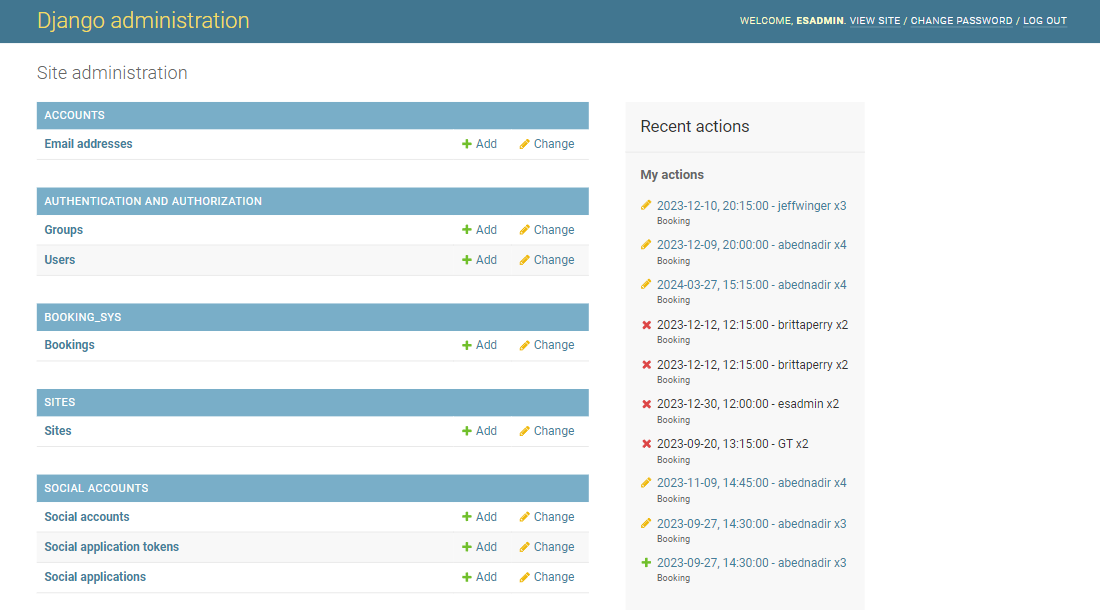
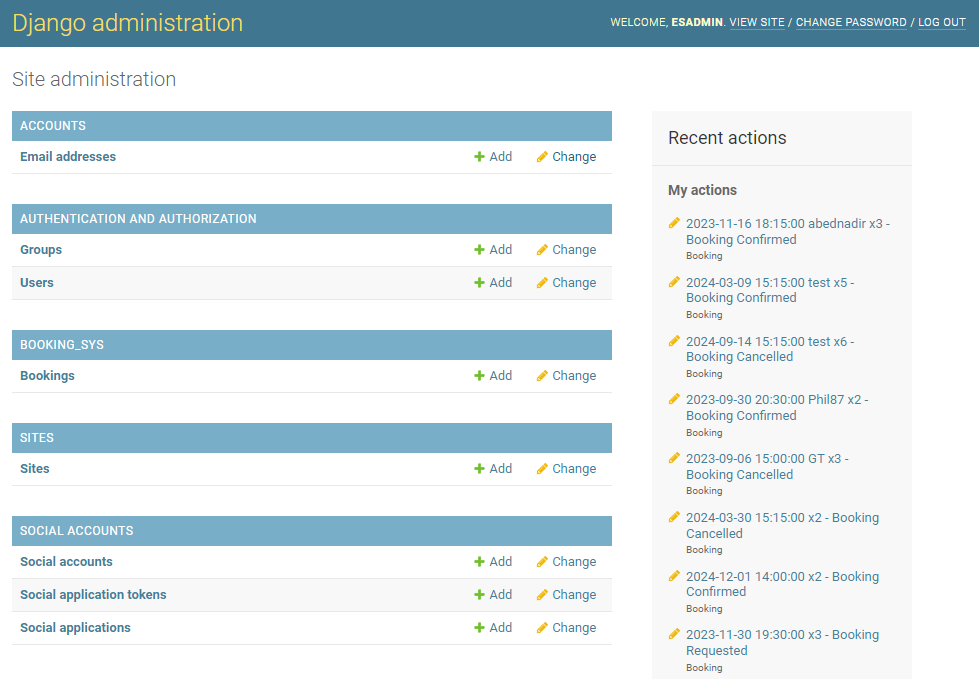
Update admin title view and documentation

diff --git a/booking_sys/models.py b/booking_sys/models.py
@@ -19,4 +19,4 @@ class Booking(models.Model):
 
     def __str__(self):
         status_name = dict(STATUS)[self.status]
-        return f'{self.date} {self.time} x{self.group} - {status_name}'
+        return f'{self.date} {self.time} {self.contact} x{self.group} - {status_name}'

diff --git a/eaststreet/settings.py b/eaststreet/settings.py
@@ -25,7 +25,7 @@ TEMPLATES_DIR = os.path.join(BASE_DIR, 'templates')
 SECRET_KEY = os.environ.get('SECRET_KEY')
 
 # SECURITY WARNING: don't run with debug turned on in production!
-DEBUG = True
+DEBUG = False
 
 ALLOWED_HOSTS = [
     'localhost',

diff --git a/README.md b/README.md
@@ -245,7 +245,7 @@ Each of the following implementations was added in response to the acceptance cr
 
 ![Admin](static/images/readme/features-admin.png)
 
-- An admin area accessible via the [following link](https://east-street-bc0671035c95.herokuapp.com/admin) which is only accessible by typing the address i.e. not direct link is provided to users of the site
+- An admin area accessible via https://east-street-bc0671035c95.herokuapp.com/admin which can only be accessed by typing the address i.e. no direct link is provided to users of the site
 - Username and password details must be entered to gain access and will only admit those designated as administrators
 - A link named 'Bookings' provided in the lefthand menu allows the admin to view all entries on the database
 
@@ -330,7 +330,7 @@ Each of the following implementations was added in response to the acceptance cr
 ![Overview](static/images/readme/features-admin-overview.png)
 
 - A link named 'Bookings' provided in the lefthand menu allows the admin to view all entries on the database
-- Booking names formatted as ```<date> <time> x<group size> - <status>``` and displayed in date order for ease of reading/understanding
+- Booking names formatted as ```<date> <time> <contact> x<group size> - <status>``` and displayed in date order for ease of reading/understanding
 - Clicking a booking name will take the admin to its detailed view where the status can be updated and saved
 - These changes are fed back to the used via their booking list on the regular site
 
